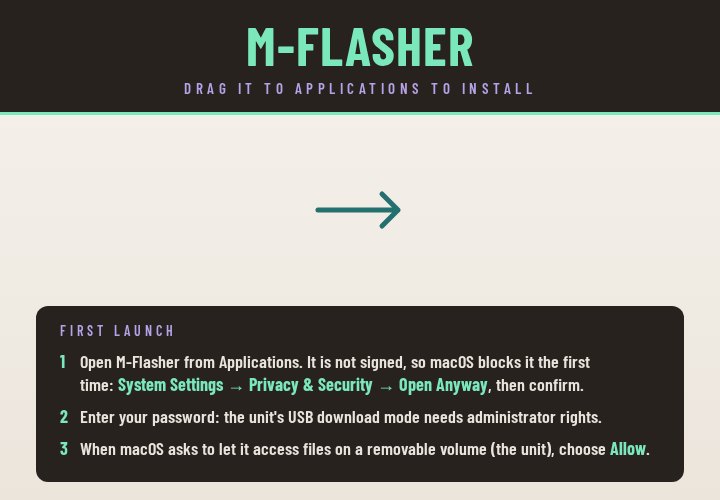
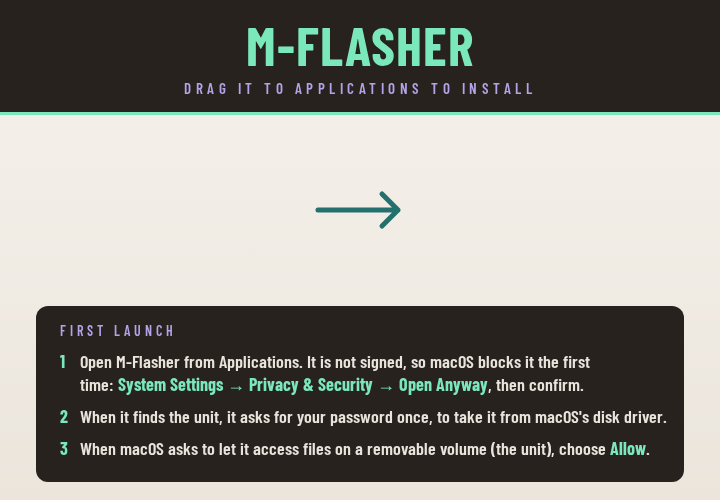
macOS: the window runs as the user; only taking the unit needs root
Instead of asking for the password itself and starting again through sudo,
the app stays a normal process. When macOS's disk driver holds the unit,
it runs one root step through the system's authorization dialog
(`m-flasher --take-unit PATH`: take the device from the driver, and leave
it without one), then claims the unit as the user. macOS then asks to let
M-Flasher itself access the removable volume.

Under sudo (the command line) it takes the unit directly, as before.

Changed region(s): [[0.0917, 0.81, 0.9167, 0.87]]

diff --git a/src/usb.rs b/src/usb.rs
@@ -21,7 +21,7 @@ pub struct Device {
     ep_in: u8,
     ep_out: u8,
     tag: u32,
-    /// The system's driver was detached from the interface.
+    /// Linux: the disk driver was detached from the interface.
     detached: bool,
 }
 
@@ -40,56 +40,123 @@ fn path_of(d: &rusb::Device<GlobalContext>) -> String {
     format!("usb:{}-{}", d.bus_number(), d.address())
 }
 
-impl Device {
-    pub fn open(path: &str) -> Result<Device, ScsiError> {
-        let devices = rusb::devices().map_err(|e| failed("cannot list the USB devices", e))?;
-        let dev = devices
-            .iter()
-            .find(|d| path_of(d) == path)
-            .ok_or_else(|| ScsiError::Failed(format!("{path}: the unit is no longer connected")))?;
-        // the mass-storage interface and its two bulk endpoints
-        let config = dev.active_config_descriptor().map_err(|e| failed("cannot read the USB configuration", e))?;
-        let mut found = None;
-        for iface in config.interfaces() {
-            for alt in iface.descriptors().filter(|a| a.class_code() == 8) {
-                let bulk = |dir| {
-                    alt.endpoint_descriptors()
-                        .find(|e| e.transfer_type() == TransferType::Bulk && e.direction() == dir)
-                        .map(|e| e.address())
-                };
-                if let (Some(i), Some(o)) = (bulk(Direction::In), bulk(Direction::Out)) {
-                    found = Some((alt.interface_number(), i, o));
-                }
+fn is_root() -> bool {
+    // SAFETY: a plain libc call without arguments
+    unsafe { libc::geteuid() == 0 }
+}
+
+/// The USB device of the unit at path, and its mass-storage interface with
+/// its two bulk endpoints.
+fn find(path: &str) -> Result<(rusb::Device<GlobalContext>, u8, u8, u8), ScsiError> {
+    let devices = rusb::devices().map_err(|e| failed("cannot list the USB devices", e))?;
+    let dev = devices
+        .iter()
+        .find(|d| path_of(d) == path)
+        .ok_or_else(|| ScsiError::Failed(format!("{path}: the unit is no longer connected")))?;
+    let config = dev.active_config_descriptor().map_err(|e| failed("cannot read the USB configuration", e))?;
+    for iface in config.interfaces() {
+        for alt in iface.descriptors().filter(|a| a.class_code() == 8) {
+            let bulk = |dir| {
+                alt.endpoint_descriptors()
+                    .find(|e| e.transfer_type() == TransferType::Bulk && e.direction() == dir)
+                    .map(|e| e.address())
+            };
+            if let (Some(i), Some(o)) = (bulk(Direction::In), bulk(Direction::Out)) {
+                return Ok((dev, alt.interface_number(), i, o));
             }
         }
-        let (iface, ep_in, ep_out) =
-            found.ok_or_else(|| ScsiError::Failed(format!("{path}: no USB mass-storage interface")))?;
+    }
+    Err(ScsiError::Failed(format!("{path}: no USB mass-storage interface")))
+}
+
+/// macOS, as root: take the unit from the disk driver and leave it without
+/// one (until it is unplugged), for a normal process to claim. The app runs
+/// this through the system's authorization dialog (`--take-unit PATH`).
+#[cfg(target_os = "macos")]
+pub fn take_from_disk_driver(path: &str) -> Result<(), ScsiError> {
+    let (dev, iface, _, _) = find(path)?;
+    let handle = dev.open().map_err(|e| failed("cannot open the unit", e))?;
+    handle.detach_kernel_driver(iface).map_err(|e| match e {
+        rusb::Error::Access => needs_root(e),
+        e => failed("cannot take the unit from the system's USB disk driver", e),
+    })
+}
+
+/// macOS, not root: take_from_disk_driver as root, after the system's
+/// authorization dialog (password or Touch ID).
+#[cfg(target_os = "macos")]
+fn take_with_authorization(path: &str) -> Result<(), ScsiError> {
+    let exe = std::env::current_exe().map_err(|e| ScsiError::Failed(e.to_string()))?;
+    let sh = |s: &str| format!("'{}'", s.replace('\'', "'\\''"));
+    let cmd = format!("{} --take-unit {}", sh(&exe.to_string_lossy()), sh(path));
+    let script = format!(
+        "do shell script \"{}\" with prompt \"M-Flasher needs to take the unit from macOS's disk driver.\" \
+         with administrator privileges",
+        cmd.replace('\\', "\\\\").replace('"', "\\\"")
+    );
+    let ok = std::process::Command::new("osascript").args(["-e", &script]).status().is_ok_and(|s| s.success());
+    if ok {
+        Ok(())
+    } else {
+        Err(ScsiError::NeedsAdmin(
+            "macOS's disk driver holds the unit: M-Flasher needs an administrator's permission to take it".into(),
+        ))
+    }
+}
+
+impl Device {
+    pub fn open(path: &str) -> Result<Device, ScsiError> {
+        match Self::claim(path) {
+            // macOS, a normal process: root takes the unit from the disk
+            // driver, then this process claims it
+            #[cfg(target_os = "macos")]
+            Err(ScsiError::NeedsAdmin(_)) if !is_root() => {
+                take_with_authorization(path)?;
+                Self::claim(path)
+            }
+            r => r,
+        }
+    }
+
+    fn claim(path: &str) -> Result<Device, ScsiError> {
+        let (dev, iface, ep_in, ep_out) = find(path)?;
         let handle = dev.open().map_err(|e| match e {
             rusb::Error::Access => needs_root(e),
             e => failed("cannot open the unit", e),
         })?;
-        // the system's disk driver lets go of the interface (on macOS: of
-        // the whole device, which needs root), and gets it back on drop
-        // (libusb on macOS says no driver is attached when the disk driver
-        // is: detach there regardless)
-        let detached = cfg!(target_os = "macos") || handle.kernel_driver_active(iface).unwrap_or(false);
-        if detached {
+        // Linux: the disk driver lets go of the interface, and gets it back on drop
+        let mut detached = false;
+        if !cfg!(target_os = "macos") && handle.kernel_driver_active(iface).unwrap_or(false) {
             handle.detach_kernel_driver(iface).map_err(|e| match e {
                 rusb::Error::Access => needs_root(e),
                 e => failed("cannot take the unit from the system's USB disk driver", e),
             })?;
+            detached = true;
         }
-        // after a capture macOS takes a moment to offer the interface again
         let mut claimed = handle.claim_interface(iface);
-        for _ in 0..20 {
-            if !matches!(claimed, Err(rusb::Error::Other | rusb::Error::Busy)) {
-                break;
+        // macOS: the disk driver holds it (libusb cannot tell: it says no
+        // driver is attached). Root can take the whole device from it.
+        if claimed.is_err() && cfg!(target_os = "macos") {
+            if !is_root() {
+                return Err(ScsiError::NeedsAdmin("macOS's disk driver holds the unit".into()));
             }
-            std::thread::sleep(Duration::from_millis(100));
-            claimed = handle.claim_interface(iface);
+            handle.detach_kernel_driver(iface).map_err(|e| failed("cannot take the unit from macOS's disk driver", e))?;
+            // after a capture macOS takes a moment to offer the interface again
+            for _ in 0..10 {
+                std::thread::sleep(Duration::from_millis(100));
+                claimed = handle.claim_interface(iface);
+                if claimed.is_ok() {
+                    break;
+                }
+            }
         }
         claimed.map_err(|e| match e {
             rusb::Error::Access | rusb::Error::Busy => needs_root(e),
+            e if cfg!(target_os = "macos") => ScsiError::Failed(format!(
+                "macOS did not let M-Flasher use the unit ({e}). It asks once to allow access to files on \
+                 a removable volume: if that was refused, allow it in System Settings → Privacy & Security \
+                 → Files & Folders. (Over SSH macOS cannot ask.)"
+            )),
             e => failed("cannot take the unit's USB interface", e),
         })?;
         Ok(Device { handle, iface, ep_in, ep_out, tag: 0, detached })
@@ -187,10 +254,10 @@ impl super::Scsi for Device {
 impl Drop for Device {
     fn drop(&mut self) {
         let _ = self.handle.release_interface(self.iface);
-        // Linux: the disk driver gets the interface back. macOS would re-enumerate
-        // the device for that, which makes the chip leave download mode: there it
-        // stays without a driver until it is unplugged.
-        if self.detached && !cfg!(target_os = "macos") {
+        // Linux: the disk driver gets the interface back. (macOS would
+        // re-enumerate the device for that, which makes the chip leave download
+        // mode: there it stays without a driver until it is unplugged.)
+        if self.detached {
             let _ = self.handle.attach_kernel_driver(self.iface);
         }
     }

diff --git a/src/main.rs b/src/main.rs
@@ -19,6 +19,17 @@ mod ui;
 
 fn main() {
     let args: Vec<String> = std::env::args().skip(1).collect();
+    // macOS: the root step the app runs through the authorization dialog
+    #[cfg(target_os = "macos")]
+    if args.len() == 2 && args[0] == "--take-unit" {
+        std::process::exit(match scsi::take_from_disk_driver(&args[1]) {
+            Ok(()) => 0,
+            Err(e) => {
+                eprintln!("{e}");
+                1
+            }
+        });
+    }
     if !args.is_empty() {
         #[cfg(windows)]
         unsafe {
@@ -27,72 +38,8 @@ fn main() {
         }
         std::process::exit(cli::run(args));
     }
-    #[cfg(target_os = "macos")]
-    if relaunch_as_root() {
-        return;
-    }
     if let Err(e) = ui::run() {
         eprintln!("cannot open the window: {e}");
         std::process::exit(1);
-    }
-}
-
-/// macOS lets only root take the unit from its disk driver. Opened as a normal
-/// app, the window starts again as root through sudo, with the password asked
-/// in a system dialog. Started by this process (not through an authorization
-/// helper), the root window stays M-Flasher's own, so macOS can ask the user
-/// to allow it the USB device. sudo keeps the home folder and sets SUDO_UID,
-/// so the files it creates belong to the user. True: this process is done.
-#[cfg(target_os = "macos")]
-fn relaunch_as_root() -> bool {
-    use std::io::Write;
-    use std::process::{Command, Stdio};
-    // SAFETY: a plain libc call without arguments
-    if unsafe { libc::geteuid() } == 0 {
-        return false;
-    }
-    let Ok(exe) = std::env::current_exe() else { return false };
-    let mut prompt = "M-Flasher needs administrator rights to reach the unit's USB download mode.\\n\\nEnter your password to continue.";
-    loop {
-        let dialog = format!(
-            "display dialog \"{prompt}\" default answer \"\" with hidden answer with title \"M-Flasher\" \
-             buttons {{\"Quit\", \"OK\"}} default button \"OK\" cancel button \"Quit\""
-        );
-        let Ok(out) = Command::new("osascript").args(["-e", &dialog, "-e", "text returned of result"]).output() else {
-            return true;
-        };
-        if !out.status.success() {
-            return true; // Quit
-        }
-        let mut password = out.stdout;
-        if password.last() == Some(&b'\n') {
-            password.pop();
-        }
-        let Ok(mut child) = Command::new("/usr/bin/sudo")
-            .args(["-S", "-k", "-p", ""])
-            .arg(&exe)
-            .stdin(Stdio::piped())
-            .stdout(Stdio::null())
-            .stderr(Stdio::null())
-            .spawn()
-        else {
-            return true;
-        };
-        if let Some(mut stdin) = child.stdin.take() {
-            let _ = stdin.write_all(&password);
-            let _ = stdin.write_all(b"\n");
-        }
-        password.fill(0);
-        // a wrong password ends sudo within a few seconds; the window keeps running
-        for _ in 0..40 {
-            std::thread::sleep(std::time::Duration::from_millis(100));
-            if let Ok(Some(_)) = child.try_wait() {
-                break;
-            }
-        }
-        match child.try_wait() {
-            Ok(None) => return true,
-            _ => prompt = "That password did not work. Enter your password to continue.",
-        }
     }
 }

diff --git a/src/scsi.rs b/src/scsi.rs
@@ -361,3 +361,5 @@ mod imp {
 }
 
 pub use imp::{Device, find_devices};
+#[cfg(target_os = "macos")]
+pub use imp::take_from_disk_driver;

diff --git a/README.md b/README.md
@@ -120,9 +120,10 @@ is not signed with an Apple certificate, so the first time macOS blocks it:
 
 macOS does not pass the download mode's SCSI commands through, so M-Flasher
 takes the unit from the system's disk driver and talks USB mass storage
-itself (libusb). Only root may do that: the app asks for your password and
-starts again through sudo, and macOS asks once to let it access files on a
-removable volume (the unit): choose **Allow**. Start it soon after connecting
+itself (libusb). Only root may take a device from its driver: when the app
+finds the unit it asks for your password (the system's dialog) and does just
+that, then works with the unit as you. macOS asks once to let it access files
+on a removable volume (the unit): choose **Allow**. Start it soon after connecting
 the unit: left with macOS's disk driver, the unit may leave download mode
 after about half a minute. Backups go to `~/Documents/M-Flasher/backups` and
 belong to you, not root. The command line is inside the app:
